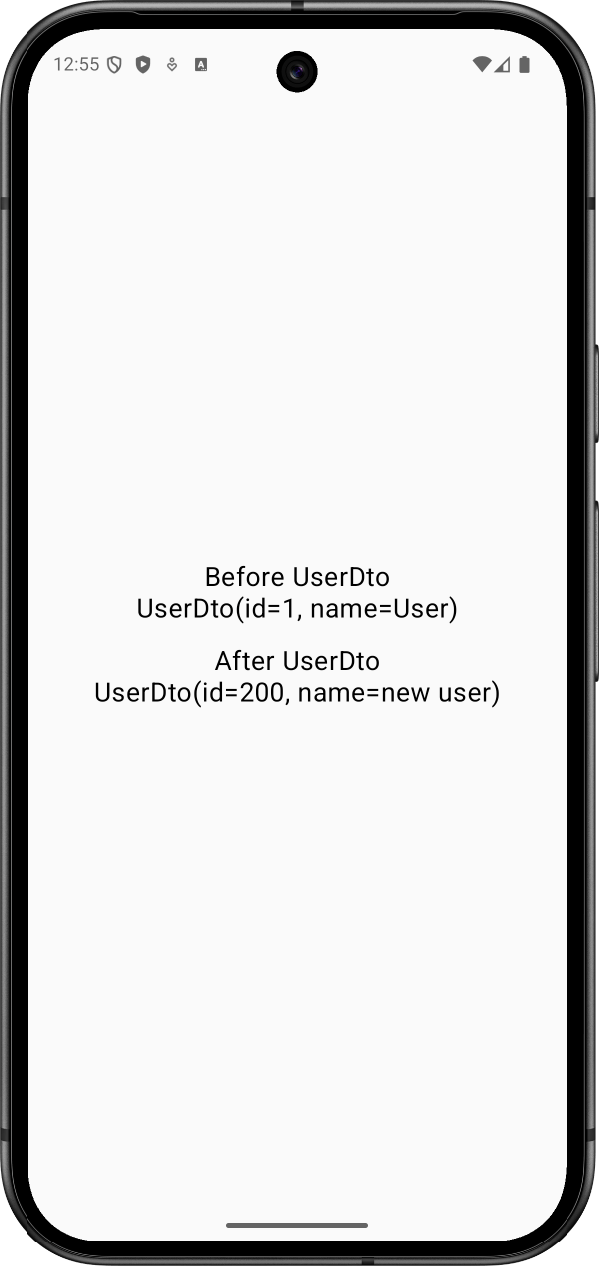
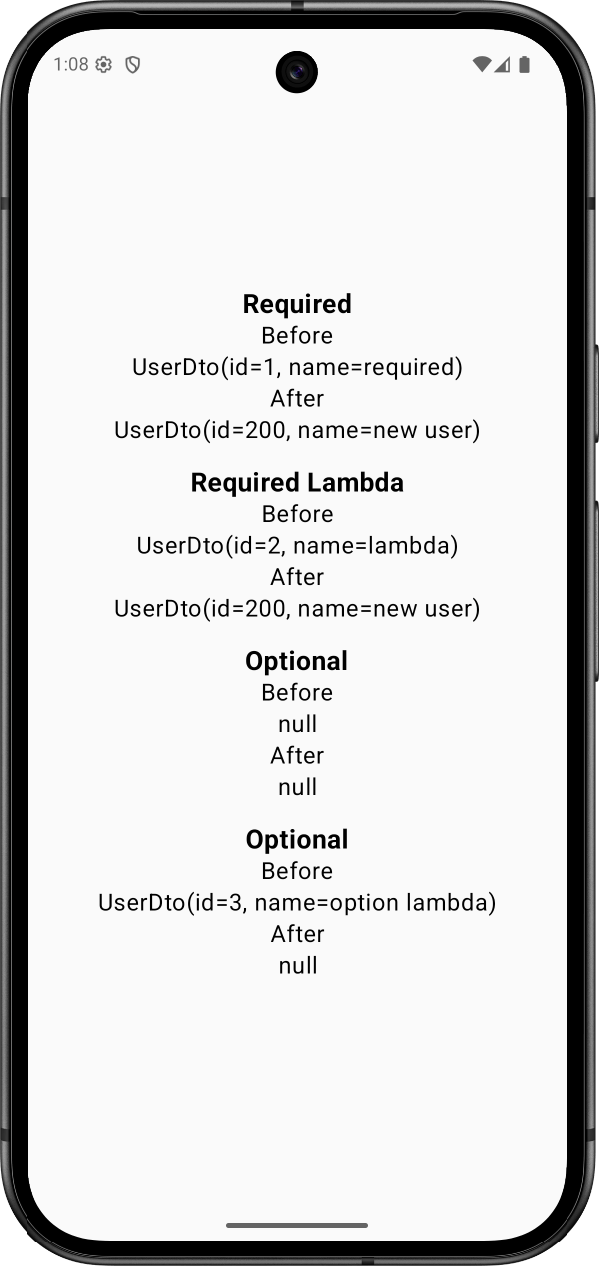
Update sample, README.md

diff --git a/app/src/main/java/com/pluu/sample/saved/ValueTestActivity.kt b/app/src/main/java/com/pluu/sample/saved/ValueTestActivity.kt
@@ -1,0 +1,94 @@
+package com.pluu.sample.saved
+
+import android.content.Context
+import android.os.Bundle
+import androidx.activity.ComponentActivity
+import androidx.activity.compose.setContent
+import androidx.activity.enableEdgeToEdge
+import androidx.compose.foundation.layout.Arrangement
+import androidx.compose.foundation.layout.Column
+import androidx.compose.foundation.layout.fillMaxSize
+import androidx.compose.material3.Text
+import androidx.compose.runtime.Composable
+import androidx.compose.ui.Alignment
+import androidx.compose.ui.Modifier
+import androidx.compose.ui.text.font.FontWeight
+import androidx.compose.ui.text.style.TextAlign
+import androidx.compose.ui.unit.dp
+import androidx.compose.ui.unit.sp
+import com.pluu.sample.saved.model.UserDto
+import com.pluu.sample.saved.ui.theme.SavedSampleTheme
+import com.pluu.sample.saved.utils.savedInject
+import com.pluu.sample.saved.utils.savedInjectNonNull
+import com.pluu.utils.startActivity
+import timber.log.Timber
+
+class ValueTestActivity : ComponentActivity() {
+    private val requiredUser by savedInjectNonNull<UserDto>()
+    private val requiredUserLambda by savedInjectNonNull<UserDto> {
+        UserDto(id = 2, name = "lambda")
+    }
+
+    private val optionUser by savedInject<UserDto>()
+    private val optionUserLambda by savedInject<UserDto> {
+        UserDto(id = 3, name = "option lambda")
+    }
+
+    override fun onCreate(savedInstanceState: Bundle?) {
+        super.onCreate(savedInstanceState)
+        Timber.d("Before")
+
+        enableEdgeToEdge()
+        setContent {
+            SavedSampleTheme {
+                Column(
+                    modifier = Modifier.fillMaxSize(),
+                    verticalArrangement = Arrangement.spacedBy(16.dp, Alignment.CenterVertically),
+                    horizontalAlignment = Alignment.CenterHorizontally
+                ) {
+                    Sample(
+                        title = "Required",
+                        value = "$requiredUser"
+                    )
+                    Sample(
+                        title = "Required Lambda (default)",
+                        value = "$requiredUserLambda"
+                    )
+                    Sample(
+                        title = "Optional",
+                        value = "$optionUser"
+                    )
+                    Sample(
+                        title = "Optional Lambda (default)",
+                        value = "$optionUserLambda"
+                    )
+                }
+            }
+        }
+    }
+
+    @Composable
+    private fun Sample(title: String, value: String) {
+        Column(horizontalAlignment = Alignment.CenterHorizontally) {
+            Text(
+                text = title,
+                fontSize = 20.sp,
+                fontWeight = FontWeight.Bold,
+            )
+
+            Text(
+                text = value,
+                fontSize = 18.sp,
+                textAlign = TextAlign.Center
+            )
+        }
+    }
+
+    companion object {
+        fun start(context: Context) {
+            context.startActivity<ValueTestActivity>(
+                "requiredUser" to UserDto(id = 1, name = "required")
+            )
+        }
+    }
+}

diff --git a/app/src/main/java/com/pluu/sample/saved/VariableTestActivity.kt b/app/src/main/java/com/pluu/sample/saved/VariableTestActivity.kt
@@ -23,7 +23,7 @@ import com.pluu.sample.saved.utils.savedInjectNonNull
 import com.pluu.utils.startActivity
 import timber.log.Timber
 
-class SecondActivity : ComponentActivity() {
+class VariableTestActivity : ComponentActivity() {
     private lateinit var beforeRequiredUser: UserDto
     private var requiredUser by savedInjectNonNull<UserDto>()
 
@@ -42,7 +42,7 @@ class SecondActivity : ComponentActivity() {
 
     override fun onCreate(savedInstanceState: Bundle?) {
         super.onCreate(savedInstanceState)
-        Timber.d("Before UserDto: %s", requiredUser)
+        Timber.d("Before")
         beforeRequiredUser = requiredUser
         beforeRequiredUserLambda = requiredUserLambda
         beforeOptionUser = optionUser
@@ -70,7 +70,7 @@ class SecondActivity : ComponentActivity() {
                         after = "$requiredUser"
                     )
                     Sample(
-                        title = "Required Lambda",
+                        title = "Required Lambda (default)",
                         before = "$beforeRequiredUserLambda",
                         after = "$requiredUserLambda"
                     )
@@ -80,7 +80,7 @@ class SecondActivity : ComponentActivity() {
                         after = "$optionUser"
                     )
                     Sample(
-                        title = "Optional",
+                        title = "Optional Lambda (default)",
                         before = "$beforeOptionUserLambda",
                         after = "$optionUserLambda"
                     )
@@ -115,7 +115,7 @@ class SecondActivity : ComponentActivity() {
 
     companion object {
         fun start(context: Context) {
-            context.startActivity<SecondActivity>(
+            context.startActivity<VariableTestActivity>(
                 "requiredUser" to UserDto(id = 1, name = "required")
             )
         }

diff --git a/app/src/main/java/com/pluu/sample/saved/FirstActivity.kt b/app/src/main/java/com/pluu/sample/saved/FirstActivity.kt
@@ -16,8 +16,11 @@ class FirstActivity : ComponentActivity() {
             val context = LocalContext.current
             SavedSampleTheme {
                 SampleLayout(title = "Sample") {
-                    ListItem(title = "Inject") {
-                        SecondActivity.start(context)
+                    ListItem(title = "Inject value") {
+                        ValueTestActivity.start(context)
+                    }
+                    ListItem(title = "Inject variable") {
+                        VariableTestActivity.start(context)
                     }
                 }
             }

diff --git a/README.md b/README.md
@@ -4,7 +4,58 @@
 
 - 참고 : [SavedStateRegistryOwnerDelegate](https://github.com/androidx/androidx/blob/androidx-main/savedstate/savedstate/src/commonMain/kotlin/androidx/savedstate/serialization/SavedStateRegistryOwnerDelegate.kt)
 
-|            Default             |            Recreate             |
-| :----------------------------: | :-----------------------------: |
-| <img src="arts/default.png" /> | <img src="arts/recreate.png" /> |
+## DTO
+
+```kotlin
+data class UserDto(
+    val id: Int,
+    val name: String
+) : Serializable
+```
+
+## Sample value
+
+```kotlin
+class SampleActivity : ComponentActivity() {
+   // non-null
+   private val requiredUser by savedInjectNonNull<UserDto>()
+   private val requiredUserLambda by savedInjectNonNull<UserDto> {
+      UserDto(id = 2, name = "lambda")
+   }
+
+   // nullable
+   private val optionUser by savedInject<UserDto>()
+   private val optionUserLambda by savedInject<UserDto> {
+      UserDto(id = 3, name = "option lambda")
+   }
+}
+```
+
+|                    Default                     |
+| :--------------------------------------------: |
+| <img src="arts/default_value.png" width=300 /> |
+
+## Sample variable
+
+```kotlin
+class SampleActivity : ComponentActivity() {
+   // non-null
+   private var requiredUser by savedInjectNonNull<UserDto>()
+   private var requiredUserLambda by savedInjectNonNull<UserDto> {
+      UserDto(id = 2, name = "lambda")
+   }
+
+   // nullable
+   private var optionUser by savedInject<UserDto>()
+   private var optionUserLambda by savedInject<UserDto> {
+      UserDto(id = 3, name = "option lambda")
+   }
+}
+```
+
+
+
+|                 Default                  |                 Recreate                  |
+| :--------------------------------------: | :---------------------------------------: |
+| <img src="arts/default.png" width=300 /> | <img src="arts/recreate.png" width=300 /> |
 
